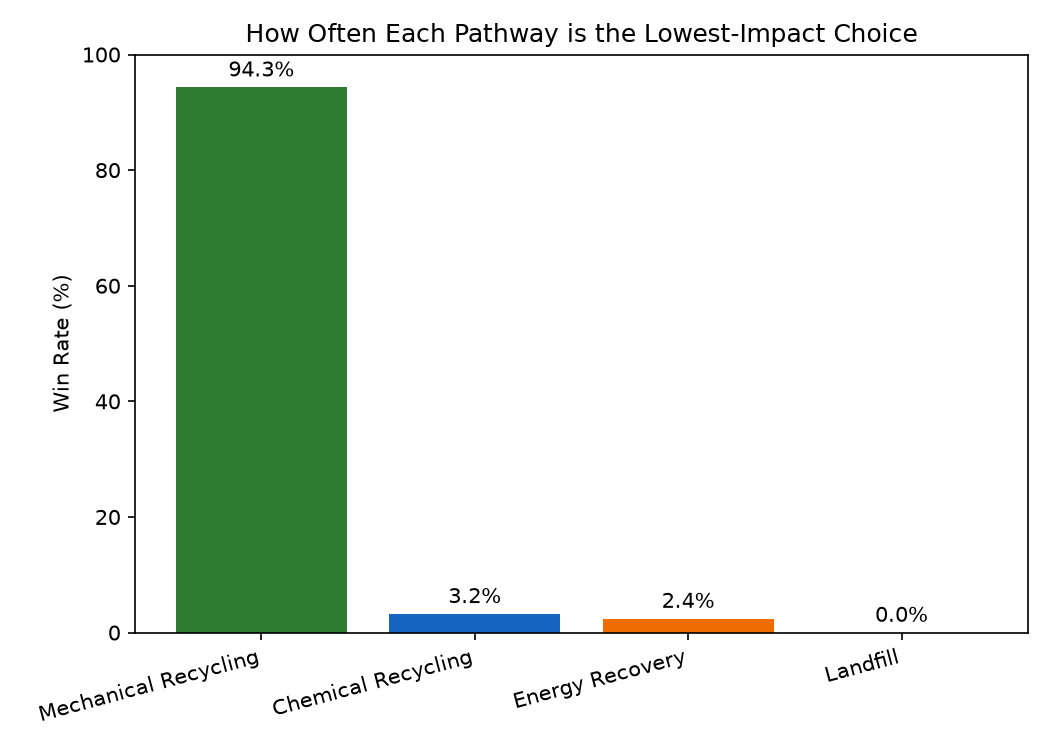
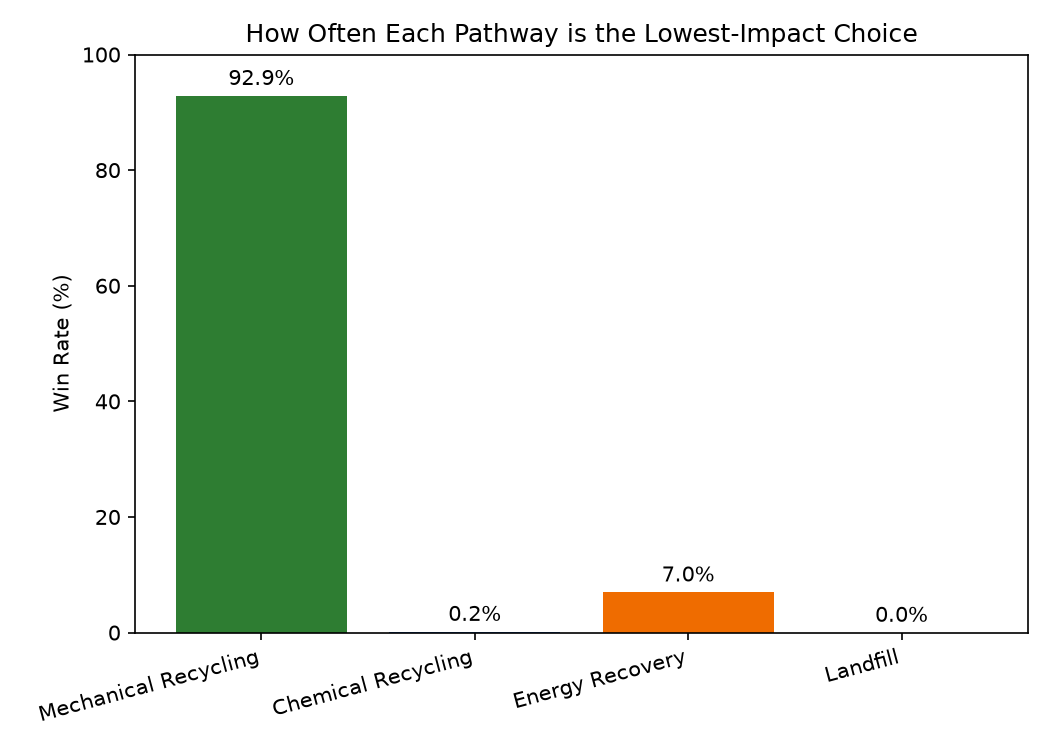
updated results

Changed region(s): [[0.3657, 0.736, 0.7619, 0.8587], [0.1524, 0.0613, 0.3352, 0.1533]]

diff --git a/src/uncertainty.py b/src/uncertainty.py
@@ -14,6 +14,7 @@ from parameters import UNCERTAINTY_RANGES
 N_SIMULATIONS = 5000
 RANDOM_SEED = 42
 
+
 def sample(range_tuple):
     low, high = range_tuple
     return random.uniform(low, high)
@@ -24,10 +25,6 @@ def sample_params(pathway_name):
 
 
 def run_simulation():
-
-
-
-
     random.seed(RANDOM_SEED)
     results = {
         "Mechanical Recycling": [],
@@ -43,6 +40,12 @@ def run_simulation():
         chem_params = sample_params("chemical")
         energy_params = sample_params("energy")
         landfill_params = sample_params("landfill")
+
+        # Shared inputs: one value per simulation, used by every pathway
+        chem_params["collection_rate"] = mech_params["collection_rate"]
+        chem_params["virgin_emission_factor"] = mech_params["virgin_emission_factor"]
+        chem_params["landfill_emission_factor"] = mech_params["landfill_emission_factor"]
+        landfill_params["landfill_emission_factor"] = mech_params["landfill_emission_factor"]
 
         run_results = {
             "Mechanical Recycling": mechanical_recycling(mech_params),
@@ -73,7 +76,7 @@ def summarize(results, win_counts, n_simulations):
         win_pct = 100 * win_counts[name] / n_simulations
         print(f"{name:<22}{mean:>10.1f}{stdev:>10.1f}{vmin:>10.1f}{vmax:>10.1f}{win_pct:>9.1f}%")
 
-        
+
 def save_summary_csv(results, win_counts, n_simulations):
     out_dir = os.path.join(os.path.dirname(__file__), "..", "results", "tables")
     os.makedirs(out_dir, exist_ok=True)
@@ -99,9 +102,7 @@ def save_summary_csv(results, win_counts, n_simulations):
     print(f"Saved: {out_path}")
 
 
-
 if __name__ == "__main__":
     results, win_counts = run_simulation()
     summarize(results, win_counts, N_SIMULATIONS)
     save_summary_csv(results, win_counts, N_SIMULATIONS)
-    

diff --git a/src/parameters.py b/src/parameters.py
@@ -23,7 +23,7 @@ BASELINE_PARAMS = {
         "landfill_emission_factor": 0.05,
     },
     "energy": {
-        "combustion_emission_factor": 2.50,
+        "combustion_emission_facto": 2.50,
         "energy_recovered_per_kg": 20.0,
         "grid_emission_factor": 0.10,
     },
@@ -49,7 +49,7 @@ UNCERTAINTY_RANGES = {
         "landfill_emission_factor": (0.03, 0.08),
     },
     "energy": {
-        "combustion_emission_factor": (2.00, 3.00),
+        "combustion_emission_factor": (2.00, 2.29),
         "energy_recovered_per_kg": (15.0, 25.0),
         "grid_emission_factor": (0.05, 0.15),
     },

diff --git a/README.md b/README.md
@@ -4,33 +4,48 @@ A Python project for comparing PET end-of-life pathways using a baseline model a
 
 ## Overview
 
-This repository compares different PET waste management pathways, including mechanical recycling, chemical recycling, energy recovery, and landfill. The model estimates net greenhouse gas impact per 1 metric ton of PET waste. It also tests how sensitive the ranking is under uncertainty.
+This repository compares four PET waste management pathways: mechanical recycling, chemical recycling, energy recovery and landfill. The model estimates net greenhouse gas (GHG) impact per 1 metric ton of PET waste, in kg CO2-eq. A lower (more negative) value is better. It also tests how stable the ranking is when the inputs are uncertain.
 
 ## Methods
 
-The project uses:
-- a baseline impact model in `src/model.py`,
-- uncertainty ranges and Monte Carlo simulation in `src/uncertainty.py`,
-- plots in `src/plots.py`,
-- and summary outputs saved in `results/`.
+- `src/model.py`: baseline impact model, one formula per pathway.
+- `src/parameters.py`: uncertainty ranges for every input.
+- `src/uncertainty.py`: Monte Carlo simulation (5,000 runs, fixed random seed 42, so results are reproducible).
+- `src/plots.py`: figures.
+- `results/`: saved tables and figures.
 
-## Folder Structure
-
-- `data/` — input data and parameter files.
-- `docs/` — methodology notes.
-- `notebooks/` — exploration notebooks.
-- `results/` — figures and tables.
-- `reports/` — final write-ups.
-- `src/` — Python code.
+In each run, every input is drawn at random from its range. Inputs that are physically the same quantity (collection rate, virgin PET emission factor, landfill emission factor) are drawn once per run and shared across pathways. The pathway with the lowest net impact in that run is counted as the winner.
 
 ## Results
 
-The current simulation shows mechanical recycling as the lowest-impact pathway most of the time. The figures are saved as:
-- `results/figures/box_comparison.png`
-- `results/figures/win_percentage.png`
+| Pathway | Mean (kg CO2-eq/t) | Win % |
+|---|---|---|
+| Mechanical recycling | -932.5 | 92.9% |
+| Chemical recycling | -471.0 | 0.2% |
+| Energy recovery | 158.9 | 7.0% |
+| Landfill | 55.1 | 0.0% |
+
+Mechanical recycling has the lowest impact in most runs. Figures are saved in `results/figures/` (`box_comparison.png`, `win_percentage.png`).
+
+## Assumptions and limitations
+
+- Recycled PET is assumed to replace virgin PET 1:1, which gives a large avoided-emissions credit. The ranking depends strongly on this.
+- The energy recovery credit assumes a fixed amount of recovered energy per kg and a grid emission factor, and may be generous.
+- Only GHG is modelled. Cost, contamination and regional differences are not included.
+- Input ranges are literature-style assumptions and have not been validated against site-specific data.
+
+## Folder Structure
+
+- `data/`: input data and parameter files
+- `docs/`: methodology notes
+- `notebooks/`: exploration notebooks
+- `results/`: figures and tables
+- `reports/`: final write-ups
+- `src/`: Python code
 
 ## How to Run
 
-1. Run `python src/uncertainty.py`
-2. Run `python src/plots.py`
-3. Check the `results/tables/` and `results/figures/` folders.
+1. Install the libraries: `pip install matplotlib pandas`
+2. Run `python src/uncertainty.py`
+3. Run `python src/plots.py`
+4. Check the `results/tables/` and `results/figures/` folders.
